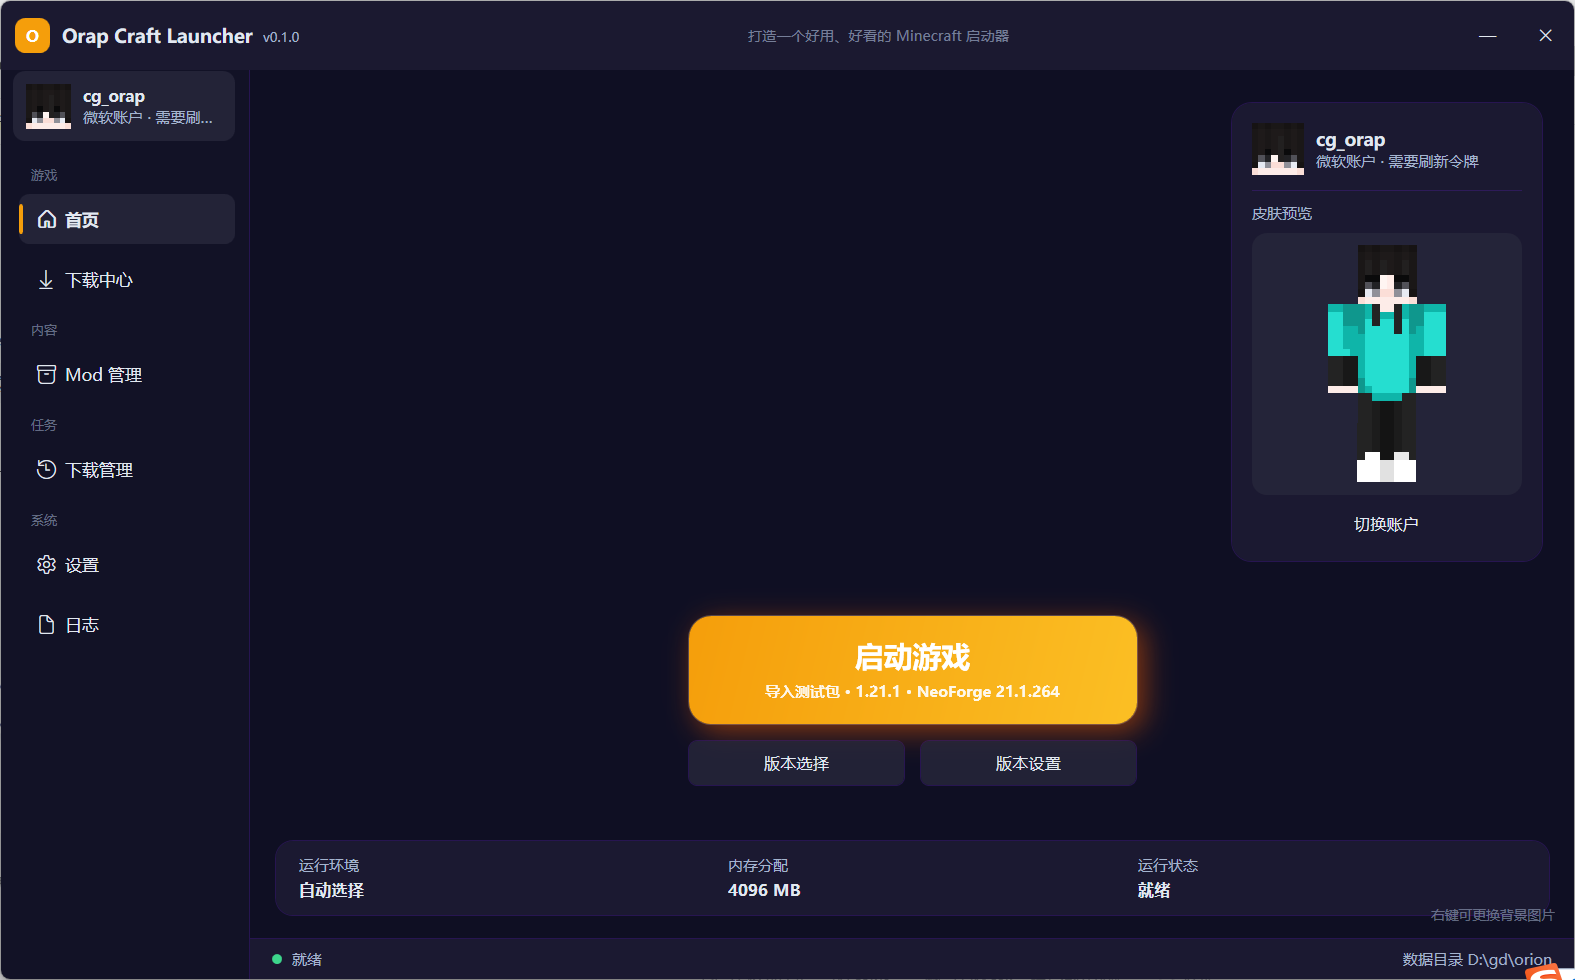
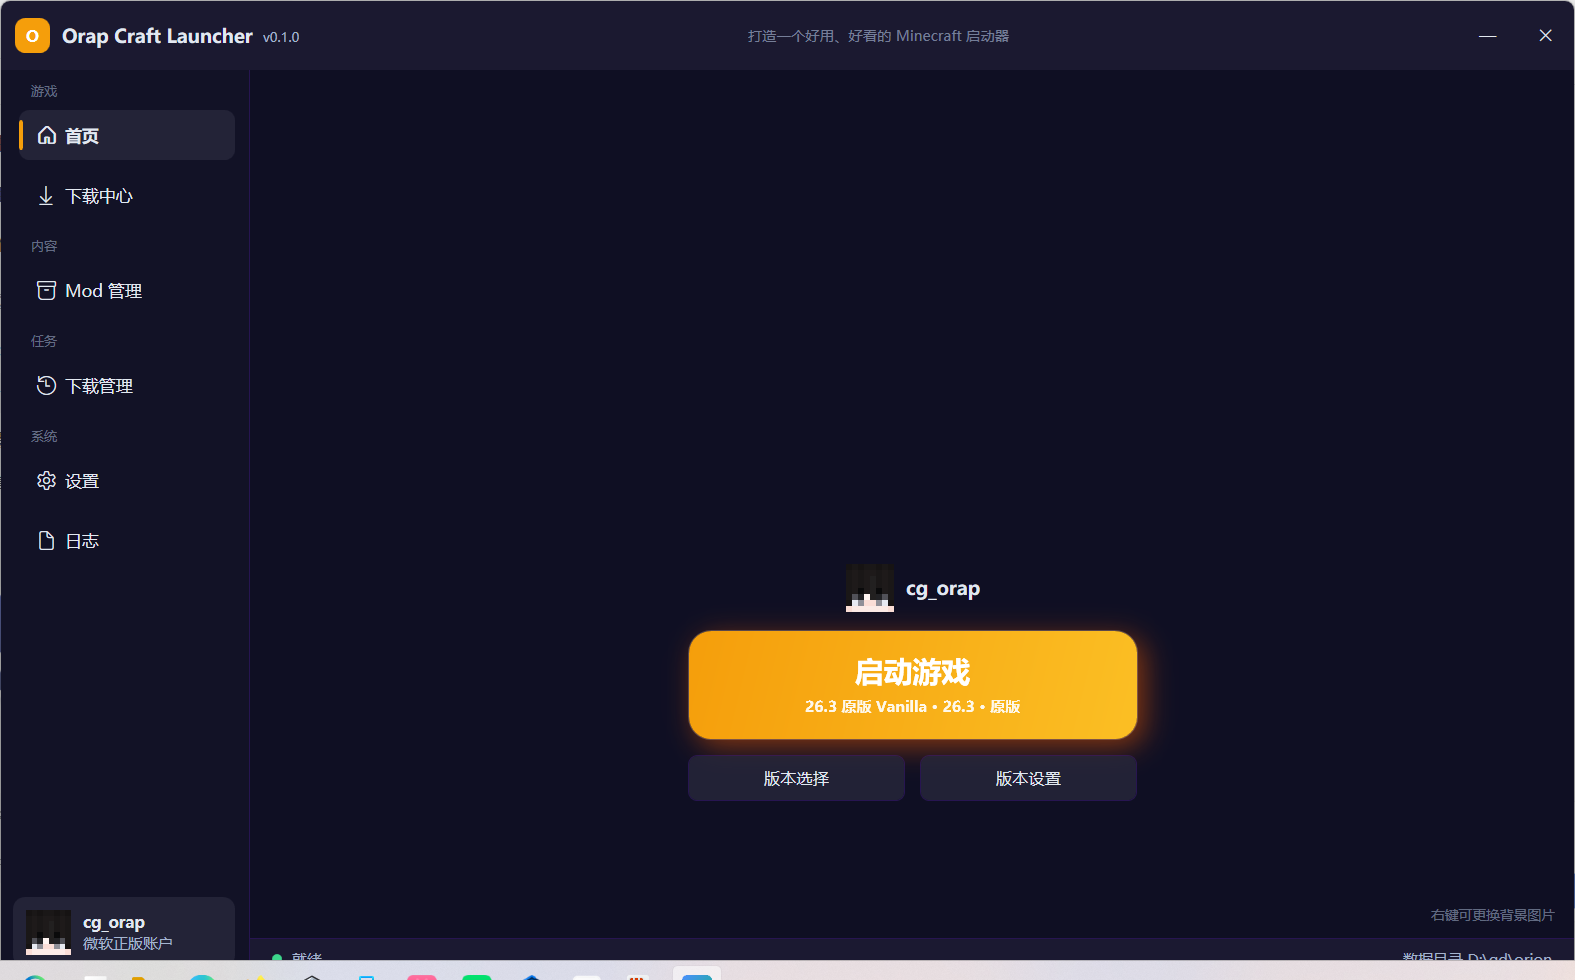
Fix 返回列表, move the account to the rail bottom, show identity above the launch button
- 返回列表 was bound to DataContext.CloseDetailCommand of the detail view (whose data context is
  CatalogDetailViewModel and has no such command), so the button did nothing. It now binds to
  MainViewModel.CatalogPage.CloseDetailCommand through the window.
- The account card moved from the top of the rail to its bottom (DockPanel.Dock=Bottom).
- The right-hand skin preview card is gone; a skin head plus the account name now sit directly above
  the launch button, so the identity is visible where the action happens.

Verified: build + 140 tests + publish + startup smoke via build\verify.ps1, screenshot of the new home.

diff --git a/src/Orion.App/Views/HomeView.xaml b/src/Orion.App/Views/HomeView.xaml
@@ -56,82 +56,6 @@
                 <MenuItem Header="恢复默认背景" Command="{Binding ClearBackgroundCommand}" />
             </ContextMenu>
         </Grid.ContextMenu>
-
-        <!-- 右侧：账户与皮肤卡片 -->
-        <Border HorizontalAlignment="Right" VerticalAlignment="Top" Margin="0,26,26,0" Width="250"
-                CornerRadius="16" Background="{DynamicResource SurfaceBg}" BorderBrush="{DynamicResource BorderBrushSoft}"
-                BorderThickness="1" Padding="16">
-            <StackPanel>
-                <StackPanel Orientation="Horizontal">
-                    <Grid Width="42" Height="42" Margin="0,0,10,0">
-                        <Border CornerRadius="8" Background="{DynamicResource SurfaceAltBg}"
-                                Visibility="{Binding DataContext.HasCurrentAccountAvatar, RelativeSource={RelativeSource AncestorType=Window}, Converter={StaticResource BoolToVisibility}, ConverterParameter=invert}">
-                            <TextBlock Text="{Binding DataContext.CurrentAccount.Username, RelativeSource={RelativeSource AncestorType=Window}, Converter={StaticResource Initial}}"
-                                       FontSize="18" FontWeight="SemiBold" Foreground="{DynamicResource AccentBrush}"
-                                       HorizontalAlignment="Center" VerticalAlignment="Center" />
-                        </Border>
-                        <Border CornerRadius="8" ClipToBounds="True"
-                                Visibility="{Binding DataContext.HasCurrentAccountAvatar, RelativeSource={RelativeSource AncestorType=Window}, Converter={StaticResource BoolToVisibility}}">
-                            <Image Source="{Binding DataContext.CurrentAccountAvatar, RelativeSource={RelativeSource AncestorType=Window}}"
-                                   Stretch="UniformToFill" RenderOptions.BitmapScalingMode="NearestNeighbor" />
-                        </Border>
-                    </Grid>
-                    <StackPanel VerticalAlignment="Center">
-                        <TextBlock Text="{Binding DataContext.AccountDisplay, RelativeSource={RelativeSource AncestorType=Window}}"
-                                   FontWeight="SemiBold" FontSize="14" TextTrimming="CharacterEllipsis" />
-                        <TextBlock Text="{Binding DataContext.AccountDetail, RelativeSource={RelativeSource AncestorType=Window}}"
-                                   Style="{StaticResource CaptionText}" Margin="0,2,0,0" />
-                    </StackPanel>
-                </StackPanel>
-
-                <Border Height="1" Background="{DynamicResource BorderBrushSoft}" Margin="0,12,0,10" />
-                <TextBlock Text="皮肤预览" Style="{StaticResource CaptionText}" />
-
-                <Border Margin="0,8,0,0" CornerRadius="12" Background="{DynamicResource SurfaceAltBg}" Padding="10"
-                        Height="210">
-                    <Grid>
-                        <Image Source="{Binding DataContext.CurrentAccountBody, RelativeSource={RelativeSource AncestorType=Window}}"
-                               Stretch="Uniform" RenderOptions.BitmapScalingMode="NearestNeighbor"
-                               Visibility="{Binding DataContext.HasCurrentAccountBody, RelativeSource={RelativeSource AncestorType=Window}, Converter={StaticResource BoolToVisibility}}" />
-                        <Image Source="{Binding DataContext.CurrentAccountAvatar, RelativeSource={RelativeSource AncestorType=Window}}"
-                               Width="96" Height="96" Stretch="Uniform"
-                               RenderOptions.BitmapScalingMode="NearestNeighbor"
-                               Visibility="{Binding DataContext.HasCurrentAccountBody, RelativeSource={RelativeSource AncestorType=Window}, Converter={StaticResource BoolToVisibility}, ConverterParameter=invert}" />
-                    </Grid>
-                </Border>
-
-                <Button Content="切换账户" Style="{StaticResource GhostButton}" Margin="0,10,0,0"
-                        Command="{Binding DataContext.OpenLoginCommand, RelativeSource={RelativeSource AncestorType=Window}}" />
-            </StackPanel>
-        </Border>
-
-        <!-- 底部信息条：运行环境 / 内存分配 / 运行状态 -->
-        <Border VerticalAlignment="Bottom" Margin="20,0,20,18" CornerRadius="14" Padding="18,12"
-                Background="{DynamicResource SurfaceBg}" BorderBrush="{DynamicResource BorderBrushSoft}" BorderThickness="1">
-            <Grid>
-                <Grid.ColumnDefinitions>
-                    <ColumnDefinition Width="*" />
-                    <ColumnDefinition Width="*" />
-                    <ColumnDefinition Width="*" />
-                </Grid.ColumnDefinitions>
-
-                <StackPanel Grid.Column="0">
-                    <TextBlock Text="运行环境" Style="{StaticResource CaptionText}" />
-                    <TextBlock Text="{Binding RuntimeText}" FontWeight="SemiBold" FontSize="13"
-                               TextTrimming="CharacterEllipsis" TextWrapping="NoWrap" Margin="0,3,0,0" />
-                </StackPanel>
-
-                <StackPanel Grid.Column="1" Margin="16,0,0,0">
-                    <TextBlock Text="内存分配" Style="{StaticResource CaptionText}" />
-                    <TextBlock Text="{Binding MemoryText}" FontWeight="SemiBold" FontSize="13" Margin="0,3,0,0" />
-                </StackPanel>
-
-                <StackPanel Grid.Column="2" Margin="16,0,0,0">
-                    <TextBlock Text="运行状态" Style="{StaticResource CaptionText}" />
-                    <TextBlock Text="{Binding StateText}" FontWeight="SemiBold" FontSize="13" Margin="0,3,0,0" />
-                </StackPanel>
-            </Grid>
-        </Border>
         <!-- Centre-bottom placement: the block is pushed below the vertical centre on purpose. -->
         <Grid>
             <Grid.RowDefinitions>
@@ -141,6 +65,24 @@
             </Grid.RowDefinitions>
 
             <StackPanel Grid.Row="1" HorizontalAlignment="Center" Margin="24,0,24,0">
+            <!-- account identity sits right above the launch button -->
+            <StackPanel Orientation="Horizontal" HorizontalAlignment="Center" Margin="0,0,0,14">
+                <Grid Width="38" Height="38" Margin="0,0,10,0">
+                    <Border CornerRadius="8" Background="{DynamicResource SurfaceAltBg}"
+                            Visibility="{Binding DataContext.HasCurrentAccountAvatar, RelativeSource={RelativeSource AncestorType=Window}, Converter={StaticResource BoolToVisibility}, ConverterParameter=invert}">
+                        <TextBlock Text="{Binding DataContext.CurrentAccount.Username, RelativeSource={RelativeSource AncestorType=Window}, Converter={StaticResource Initial}}"
+                                   FontSize="16" FontWeight="SemiBold" Foreground="{DynamicResource AccentBrush}"
+                                   HorizontalAlignment="Center" VerticalAlignment="Center" />
+                    </Border>
+                    <Border CornerRadius="8" ClipToBounds="True"
+                            Visibility="{Binding DataContext.HasCurrentAccountAvatar, RelativeSource={RelativeSource AncestorType=Window}, Converter={StaticResource BoolToVisibility}}">
+                        <Image Source="{Binding DataContext.CurrentAccountAvatar, RelativeSource={RelativeSource AncestorType=Window}}"
+                               Stretch="UniformToFill" RenderOptions.BitmapScalingMode="NearestNeighbor" />
+                    </Border>
+                </Grid>
+                <TextBlock Text="{Binding DataContext.AccountDisplay, RelativeSource={RelativeSource AncestorType=Window}}"
+                           VerticalAlignment="Center" FontSize="15" FontWeight="SemiBold" />
+            </StackPanel>
             <!-- PCL-style launch button: the action in large text, the target version underneath -->
             <Button Style="{StaticResource LaunchHeroButton}" Width="360" Height="88"
                     Command="{Binding LaunchCommand}"

diff --git a/src/Orion.App/Views/CatalogDetailView.xaml b/src/Orion.App/Views/CatalogDetailView.xaml
@@ -24,7 +24,7 @@
                 </Grid.ColumnDefinitions>
 
                 <Button Grid.Column="0" Content="← 返回列表" Style="{StaticResource GhostButton}"
-                        Command="{Binding DataContext.CloseDetailCommand, RelativeSource={RelativeSource AncestorType=UserControl}}"
+                        Command="{Binding DataContext.CatalogPage.CloseDetailCommand, RelativeSource={RelativeSource AncestorType=Window}}"
                         VerticalAlignment="Center" Margin="0,0,14,0"
                         AutomationProperties.AutomationId="DetailBackButton" />
 

diff --git a/src/Orion.App/MainWindow.xaml b/src/Orion.App/MainWindow.xaml
@@ -114,7 +114,7 @@
             <DockPanel>
 
                 <!-- account: first entry of the rail, opens the login window -->
-                <Button DockPanel.Dock="Top" Margin="10,0,10,10" Padding="0" Cursor="Hand"
+                <Button DockPanel.Dock="Bottom" Margin="10,10,10,10" Padding="0" Cursor="Hand"
                         Command="{Binding OpenLoginCommand}"
                         AutomationProperties.AutomationId="AccountButton"
                         ToolTip="点击登录 / 切换账户">
